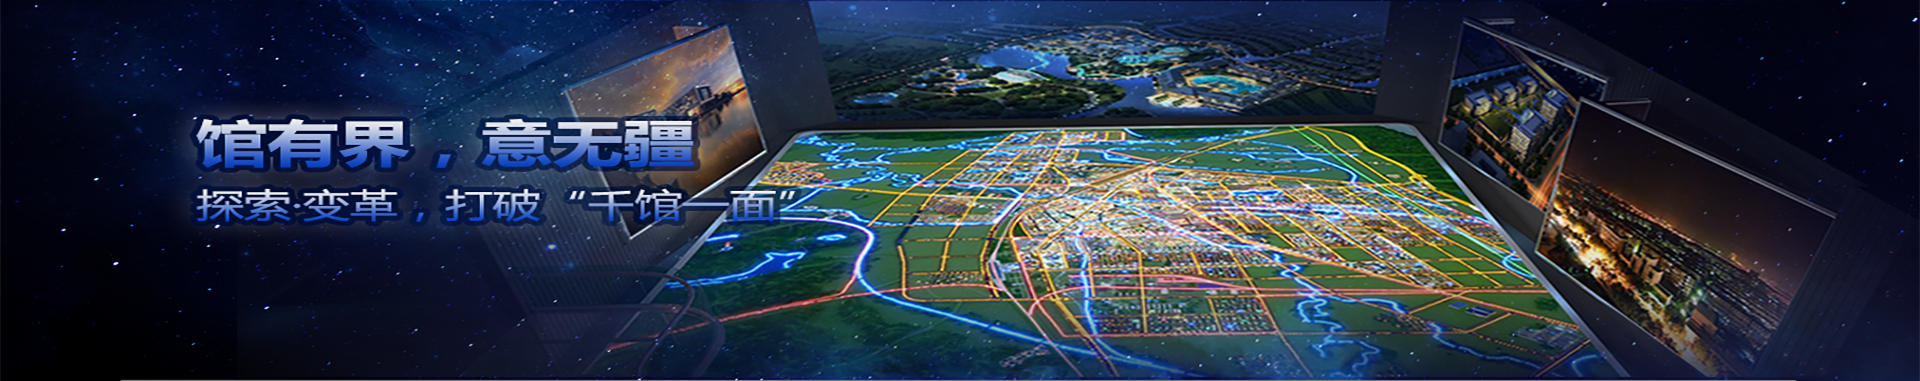
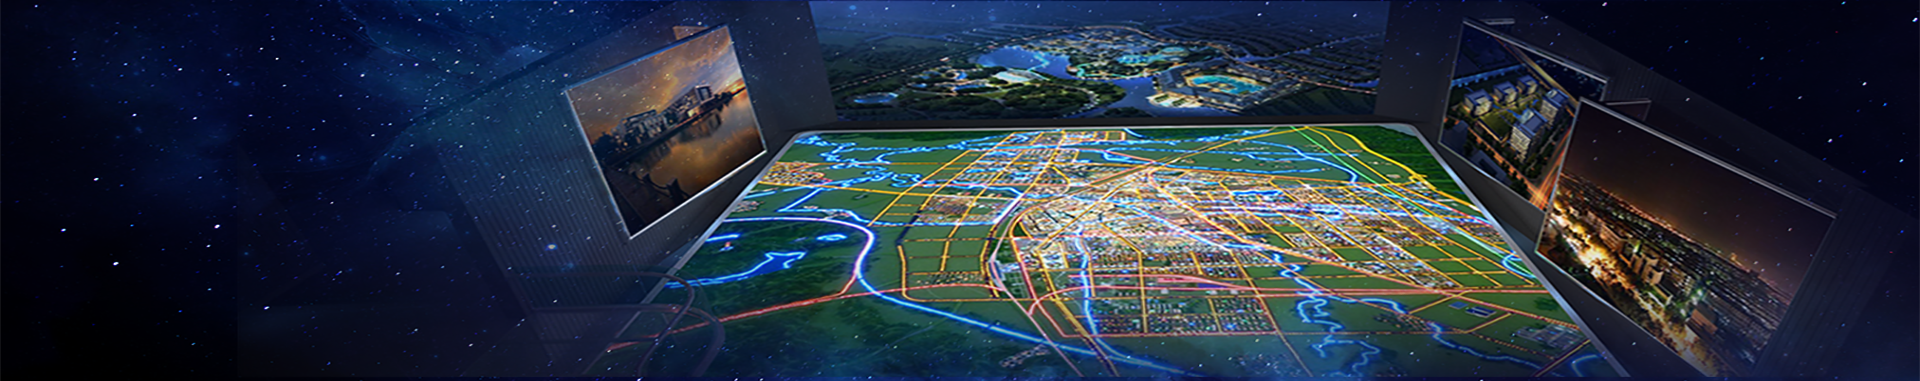
shuimu

Changed region(s): [[0.0938, 0.2887, 0.4375, 0.5774], [0.0625, 0.9816, 0.9375, 1.0]]

diff --git a/css/index.css b/css/index.css
@@ -2,6 +2,97 @@
 .item{
 	position: relative;
 }
+.item-div1{
+	width: 650px;
+	height: 80px;
+	position: absolute;
+	top:135px;
+	left:750px;
+}
+.idnex-span1{
+	display: block;
+	width: 650px;
+	font-size: 34px;
+	color: #fff;
+	font-weight: bold;
+}
+.idnex-span2{
+	display: block;
+	font-size: 28px;
+	color: #fff;
+	font-weight: bold;
+	margin-left: 130px;
+}
+.item-div2{
+	width: 142px;
+	height: 100px;
+	position: absolute;
+	bottom:45px;
+	right:83px;
+}
+.item-div2 span{
+	display: block;
+	font-size: 14px;
+	color: #fff;
+}
+.item-div3{
+	position: absolute;
+	top:135px;
+	left: 300px;
+}
+.item-div3 span{
+	display: block;
+	color: #d6902c;
+}
+.idnex-span3{
+	font-size: 34px;
+	font-weight: bold;
+	margin-left: 50px;
+}
+.idnex-span4{
+	font-size: 28px;
+}
+
+.item-div4{
+	position: absolute;
+	top:135px;
+	left: 200px;
+}
+
+.item-div4 span{  
+    display: block;
+    color: #1549bf;
+    font-family: '微软雅黑';
+    font-weight: bold;
+    background-image: -webkit-gradient(linear, 0 0, 0 bottom, from(rgba(255,255, 255, 1)), to(rgba(21, 73, 191, 1)));
+    -webkit-background-clip: text;
+    -webkit-text-fill-color: transparent;
+}
+.idnex-span5{
+	font-size: 34px;
+}
+.idnex-span6{
+	font-size: 28px;
+}
+
+/*.idnex-span5{
+	 font:28px "微软雅黑";
+	 font-weight:bold;
+	 position:relative;
+	text-shadow: 1px 2px 3px rgba(21,73,191,0.5);
+	 color:#1549bf;
+}
+.idnex-span5:after{ 
+	position:absolute;
+	left:0px; 
+	color:#ea0000; 
+	-webkit-mask-image:-webkit-gradient(linear, 0 0, 0 100%, from(rgba(0, 0, 0, 0.9)), color-stop(40%, rgba(0, 0, 0, 0.5)),to(rgba(0, 0, 0, 0))); 
+	text-shadow:0px 0px 2px rgba(234,0,0,1);
+}
+
+*/
+
+
 .index-banner{
 /*	width: 1350px;
 	height: 380px;

diff --git a/index.html b/index.html
@@ -89,12 +89,34 @@
 						</li>
 					</ul>
 				</div>
+				<div class="item-div1">
+					<span class="idnex-span1">业界资质全覆盖 • 策划设计施工一站式服务</span>
+					<span class="idnex-span2">16年经典演绎  缔造精品展览展示馆</span>
+				</div>
+
+				<div class="item-div2">
+					<div>
+						<span>水    善利万物而不争</span>
+						<span>木    生机郁勃而自然</span>
+						<span>清    润泽天下而无形 </span>
+						<span>华    厚积薄发而繁盛</span>
+					</div>
+				</div>
 			</div>
 			<div class="item">
 				<img src="img/museum-banner.png">
+				<div class="item-div3">
+					<span class="idnex-span3">"知与美,形与意"完美结合</span>
+					<span class="idnex-span4">匠心打造精品展馆</span>
+				</div>
 			</div>
 			<div class="item">
-				<img src="img/recent1.png">	
+				<img src="img/recent1.png">
+				<div class="item-div4">
+					<span class="idnex-span5">馆有界，意无疆</span>
+					<span class="idnex-span6">探索·变革，打破“千馆一面”</span>
+
+				</div>
 			</div>
 		</div>
 		<ol class="carousel-indicators">

diff --git a/css/recent-news.css b/css/recent-news.css
@@ -1,4 +1,29 @@
 
+
+.us-banner{
+	position: relative;
+}
+.item-div4{
+	position: absolute;
+	top:135px;
+	left: 200px;
+}
+
+.item-div4 span{  
+    display: block;
+    color: #1549bf;
+    font-family: '微软雅黑';
+    font-weight: bold;
+    background-image: -webkit-gradient(linear, 0 0, 0 bottom, from(rgba(255,255, 255, 1)), to(rgba(21, 73, 191, 1)));
+    -webkit-background-clip: text;
+    -webkit-text-fill-color: transparent;
+}
+.idnex-span5{
+	font-size: 34px;
+}
+.idnex-span6{
+	font-size: 28px;
+}
 .nav{
 	width:1170px;
 	margin: 0 auto;

diff --git a/css/museum.css b/css/museum.css
@@ -1,6 +1,27 @@
 /*.mu-banner-img{
 	width:1350px;
 }*/
+.mu-banner{
+	position: relative;
+}
+.item-div3{
+	position: absolute;
+	top:135px;
+	left: 300px;
+}
+.item-div3 span{
+	display: block;
+	color: #d6902c;
+}
+.idnex-span3{
+	font-size: 34px;
+	font-weight: bold;
+	margin-left: 50px;
+}
+.idnex-span4{
+	font-size: 28px;
+}
+
 .mu-select{
 	width: 1260px;
 	padding-left:80px;

diff --git a/planning-scheme.html b/planning-scheme.html
@@ -53,6 +53,10 @@
 		
 		<div class="mu-banner">
 			<img class="mu-banner-img" src="img/museum-banner.png" alt="">
+			<div class="item-div3">
+					<span class="idnex-span3">"知与美,形与意"完美结合</span>
+					<span class="idnex-span4">匠心打造精品展馆</span>
+				</div>
 		</div>
 		<div class="mu-select">
 			<div class="mu-select-box mu-select-item__click">

diff --git a/exhibition-hall-renderings.html b/exhibition-hall-renderings.html
@@ -53,6 +53,10 @@
 		
 		<div class="mu-banner">
 			<img class="mu-banner-img" src="img/museum-banner.png" alt="">
+			<div class="item-div3">
+				<span class="idnex-span3">"知与美,形与意"完美结合</span>
+				<span class="idnex-span4">匠心打造精品展馆</span>
+			</div>
 		</div>
 		<div class="mu-select">
 			<div class="mu-select-box">

diff --git a/museum.html b/museum.html
@@ -53,6 +53,10 @@
 		
 		<div class="mu-banner">
 			<img class="mu-banner-img" src="img/museum-banner.png" alt="">
+			<div class="item-div3">
+				<span class="idnex-span3">"知与美,形与意"完美结合</span>
+				<span class="idnex-span4">匠心打造精品展馆</span>
+			</div>
 		</div>
 		<div class="mu-select">
 			<div class="mu-select-box">

diff --git a/recent-news.html b/recent-news.html
@@ -53,6 +53,10 @@
 		</div>
 		<div class="us-banner">
 			<img src="img/recent1.png" alt="" >
+			<div class="item-div4">
+				<span class="idnex-span5">馆有界，意无疆</span>
+				<span class="idnex-span6">探索·变革，打破“千馆一面”</span>
+			</div>
 		</div>
 		<div class="nav">
 			<div class="subnav">
